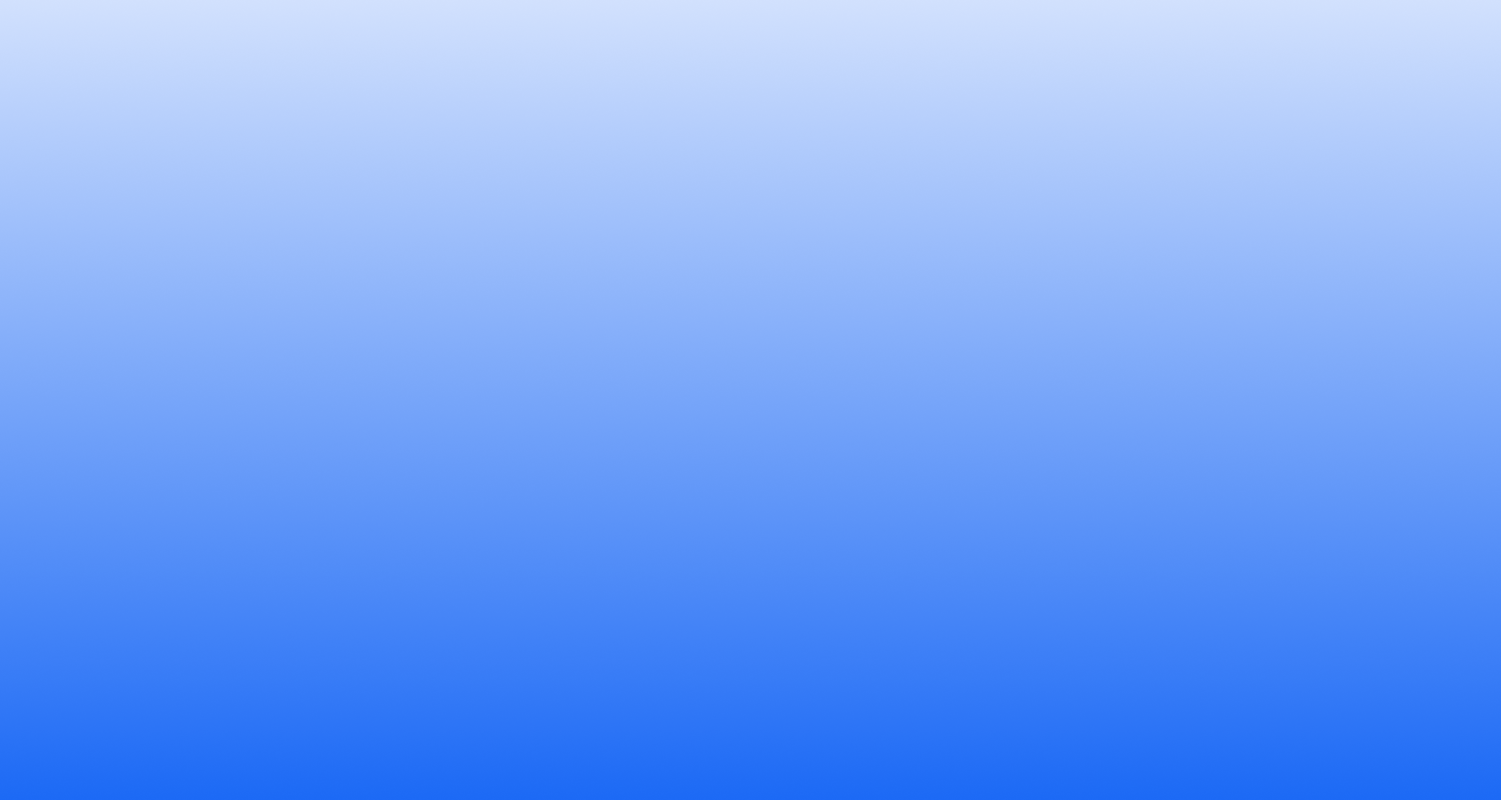
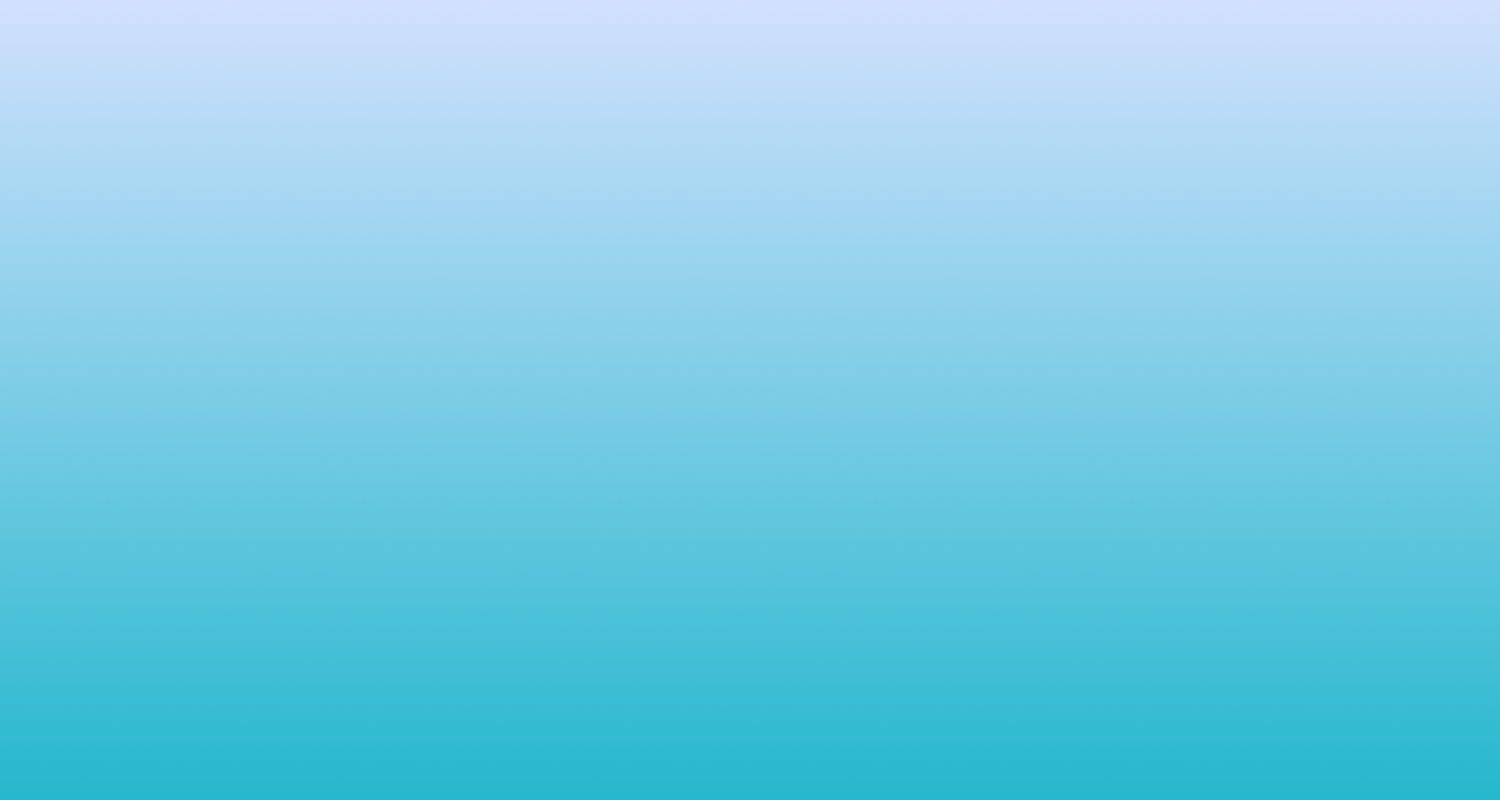
Refine verified process, typography, and section accents.
Add linear verification timeline, center key section headings, switch buttons to bold sans, and apply #36abf2 accent highlights across paths, why, and partners.

diff --git a/index.html b/index.html
@@ -147,9 +147,9 @@
 
 <!-- ============ 02 · CHOOSE YOUR PATH ============ -->
 <section class="section paths" id="paths">
-  <div class="container">
-    <p class="eyebrow reveal">Choose your path</p>
-    <h2 class="display display--lg reveal" data-delay="80">Which side of the<br>table are you on?</h2>
+  <div class="container paths--center">
+    <p class="eyebrow eyebrow--center reveal">Choose your path</p>
+    <h2 class="display display--lg display--center reveal" data-delay="80"><span class="display__accent">Which side</span> of the<br>table are you on?</h2>
 
     <div class="paths__grid paths__grid--3">
 
@@ -324,7 +324,7 @@
   <div class="stack-sticky">
     <div class="container stack__head">
       <p class="eyebrow">Why WeFundCo</p>
-      <h2 class="stack__title">Built differently from everything else in this market. Most platforms give you a list. We give you a match.</h2>
+      <h2 class="stack__title">Built differently from everything else in this market. Most platforms give you a list. <span class="display__accent">We give you a match.</span></h2>
       <a href="waitlist.html" class="btn btn--dark stack__cta">Join the Waitlist <span class="btn__arrow">&rarr;</span></a>
     </div>
 
@@ -368,40 +368,51 @@
 
 
 <!-- ============ 06 · WEFUNDCO VERIFIED ============ -->
-<section class="section partners" id="verified">
-  <div class="container">
-    <p class="eyebrow reveal">WeFundCo Verified</p>
-    <h2 class="display display--lg reveal" data-delay="80">Every profile<br><span class="display__accent">earns its place.</span></h2>
-    <p class="lede lede--left reveal" data-delay="140">Joining the waitlist is open. Being on the platform is not. Every startup, investor and partner is reviewed before becoming visible to anyone else. Entity verified. Team verified. Claims verified. This is not a badge. It is a standard.</p>
+<section class="section partners partners--verified" id="verified">
+  <div class="container partners--verified__inner">
+    <p class="eyebrow eyebrow--center reveal">WeFundCo Verified</p>
+    <h2 class="display display--lg display--center reveal" data-delay="80">Every profile<br><span class="display__accent">earns its place.</span></h2>
+    <p class="lede lede--center reveal" data-delay="140">Joining the waitlist is open. Being on the platform is not. Every startup, investor and partner is reviewed before becoming visible to anyone else. Entity verified. Team verified. Claims verified. This is not a badge. It is a standard.</p>
 
-    <div class="partners__grid">
-      <div class="partner-tile reveal" data-delay="60">
-        <img class="partner-tile__icon" src="Assets/dark-icons/Profile.png" alt="" />
-        <span>Level 01 &middot; Identity verification</span>
-      </div>
-      <div class="partner-tile reveal" data-delay="100">
-        <img class="partner-tile__icon" src="Assets/dark-icons/verify.png" alt="" />
-        <span>Level 02 &middot; Business verification</span>
-      </div>
-      <div class="partner-tile reveal" data-delay="140">
-        <img class="partner-tile__icon" src="Assets/dark-icons/doumentation.png" alt="" />
-        <span>Level 03 &middot; Documentation review</span>
-      </div>
-      <div class="partner-tile reveal" data-delay="180">
-        <img class="partner-tile__icon" src="Assets/dark-icons/Legal.png" alt="" />
-        <span>Level 04 &middot; Legal and compliance</span>
-      </div>
-      <div class="partner-tile reveal" data-delay="220">
-        <img class="partner-tile__icon" src="Assets/dark-icons/Compliance.png" alt="" />
-        <span>Level 05 &middot; Investor readiness</span>
-      </div>
-      <div class="partner-tile reveal" data-delay="260">
-        <img class="partner-tile__icon" src="Assets/dark-icons/Brand.png" alt="" />
-        <span>Verified badge, trust score, readiness index</span>
-      </div>
+    <div class="verify-process reveal" data-delay="160">
+      <div class="verify-process__line" aria-hidden="true"></div>
+      <ol class="verify-process__steps">
+        <li class="verify-process__step reveal" data-delay="60">
+          <div class="verify-process__circle">
+            <img src="Assets/dark-icons/Profile.png" alt="" />
+          </div>
+          <p class="verify-process__label">Level 01 &middot; Identity verification</p>
+        </li>
+        <li class="verify-process__step reveal" data-delay="100">
+          <div class="verify-process__circle">
+            <img src="Assets/dark-icons/verify.png" alt="" />
+          </div>
+          <p class="verify-process__label">Level 02 &middot; Business verification</p>
+        </li>
+        <li class="verify-process__step reveal" data-delay="140">
+          <div class="verify-process__circle">
+            <img src="Assets/dark-icons/doumentation.png" alt="" />
+          </div>
+          <p class="verify-process__label">Level 03 &middot; Documentation review</p>
+        </li>
+        <li class="verify-process__step reveal" data-delay="180">
+          <div class="verify-process__circle">
+            <img src="Assets/dark-icons/Legal.png" alt="" />
+          </div>
+          <p class="verify-process__label">Level 04 &middot; Legal and compliance</p>
+        </li>
+        <li class="verify-process__step reveal" data-delay="220">
+          <div class="verify-process__circle">
+            <img src="Assets/dark-icons/Compliance.png" alt="" />
+          </div>
+          <p class="verify-process__label">Level 05 &middot; Investor readiness</p>
+        </li>
+      </ol>
     </div>
 
-    <a href="waitlist.html" class="btn btn--dark reveal" data-delay="300">Join the Waitlist <span class="btn__arrow">&rarr;</span></a>
+    <div class="partners--verified__cta reveal" data-delay="260">
+      <a href="waitlist.html" class="btn btn--dark">Join the Waitlist <span class="btn__arrow">&rarr;</span></a>
+    </div>
   </div>
 
   <div class="marquee">
@@ -466,11 +477,11 @@
 
 
 <!-- ============ 08 · STRATEGIC PARTNERS ============ -->
-<section class="section partners" id="partners">
+<section class="section partners partners--growth" id="partners">
   <div class="container">
-    <p class="eyebrow reveal">Strategic Partners</p>
-    <h2 class="display display--lg reveal" data-delay="80">The people founders<br>need between rounds</h2>
-    <p class="lede lede--left reveal" data-delay="140">A funding conversation needs more than two people in it. Legal, financial, banking, compliance and technology partners join WeFundCo as the Growth Network, supporting founders through the parts of the journey that are easy to get wrong.</p>
+    <p class="eyebrow eyebrow--center reveal">Strategic Partners</p>
+    <h2 class="display display--lg display--center reveal" data-delay="80">The people founders<br>need <span class="display__accent">between rounds</span></h2>
+    <p class="lede lede--center reveal" data-delay="140">A funding conversation needs more than two people in it. Legal, financial, banking, compliance and technology partners join WeFundCo as the Growth Network, supporting founders through the parts of the journey that are easy to get wrong.</p>
 
     <div class="partners__grid">
       <div class="partner-tile reveal" data-delay="60">
@@ -499,7 +510,9 @@
       </div>
     </div>
 
-    <a href="waitlist.html" class="btn btn--dark reveal" data-delay="300">Become a strategic partner <span class="btn__arrow">&rarr;</span></a>
+    <div class="partners--growth__cta">
+      <a href="waitlist.html" class="btn btn--dark reveal" data-delay="300">Become a strategic partner <span class="btn__arrow">&rarr;</span></a>
+    </div>
   </div>
 </section>
 

diff --git a/css/styles-brand.css b/css/styles-brand.css
@@ -102,7 +102,7 @@ ul{margin:0;padding:0;list-style:none}
 .display--xl{font-size:clamp(38px,5.3vw,76px)}
 .display--lg{font-size:clamp(34px,4.5vw,64px);line-height:1.1}
 .display--center{text-align:center}
-.display__accent{color:#34aaf9}
+.display__accent{color:#36abf2}
 
 /* Geist Mono 500 · 14/19.6 · ls -.16px · uppercase */
 .eyebrow{
@@ -113,6 +113,7 @@ ul{margin:0;padding:0;list-style:none}
 
 .lede{font-size:16px;line-height:1.4;color:var(--muted);max-width:56ch}
 .lede--left{margin-top:24px}
+.lede--center{margin-inline:auto;text-align:center}
 
 /* Aspekta 500 · 32/41.6 · ls -.02em — the sans heading step */
 .statement{
@@ -122,11 +123,11 @@ ul{margin:0;padding:0;list-style:none}
 }
 
 /* ---------- buttons ---------- */
-/* Measured: padding 20px 24px · radius 12px · Geist Mono 500 16px uppercase · h58 */
+/* Measured: padding 20px 24px · radius 12px · Aspekta 700 16px · h58 */
 .btn{
   display:inline-flex;align-items:center;justify-content:center;gap:10px;
-  font-family:var(--mono);font-size:16px;font-weight:500;line-height:1;
-  letter-spacing:normal;text-transform:uppercase;
+  font-family:var(--sans);font-size:16px;font-weight:700;line-height:1;
+  letter-spacing:-.01em;text-transform:none;
   padding:20px 24px;border-radius:var(--r-btn);border:1px solid transparent;
   background:var(--ink);color:#fff;cursor:pointer;
   transition:transform var(--t-slow) var(--ease),background var(--t-fast) ease,
@@ -136,14 +137,14 @@ ul{margin:0;padding:0;list-style:none}
 .btn:hover{transform:translateY(-2px);box-shadow:0 12px 30px rgba(0,20,56,.18)}
 .btn--lg{padding:20px 28px}
 .btn--dark{background:var(--ink);color:#fff}
-.btn--pill{background:var(--royal-blue);color:#fff;padding:12px 16px;gap:8px}  /* nav CTA */
+.btn--pill{background:var(--royal-blue);color:#fff;padding:12px 16px;gap:8px;font-weight:600}  /* nav CTA */
 .btn--pill:hover{background:var(--deep-navy);color:#fff}
 .btn--mint{background:#fff;color:#3A3A3A;border-radius:200px}
 .btn--mint:hover{background:var(--teal);color:var(--oxford-blue)}
 .btn--lilac{background:var(--lilac);color:var(--ink-2)}
 .btn--ghost{
   background:var(--white);color:var(--ink);border-color:var(--line);
-  font-family:var(--sans);font-size:16px;font-weight:500;text-transform:none;
+  font-family:var(--sans);font-size:16px;font-weight:700;text-transform:none;
   padding:16px;border-radius:60px;gap:14px;
 }
 .btn__arrow{transition:transform .4s var(--ease)}
@@ -329,6 +330,9 @@ ul{margin:0;padding:0;list-style:none}
    02 · PATHS
    ========================================================= */
 .paths__grid{display:grid;grid-template-columns:1fr 1fr;gap:24px;margin-top:56px}
+.paths--center{text-align:center}
+.paths--center > .eyebrow,
+.paths--center > .display{margin-inline:auto}
 .path-card{
   background:#fff;border-radius:var(--r-xl);overflow:hidden;
   display:flex;flex-direction:column;
@@ -443,6 +447,7 @@ ul{margin:0;padding:0;list-style:none}
   font-size:clamp(21px,2.6vw,40px);line-height:1.22;
   max-width:min(38ch,calc(100% - 240px));
 }
+.stack__title .display__accent{color:#36abf2}
 .stack__cta{position:absolute;right:0;bottom:0}
 .stack__cards{position:relative;flex:1;min-height:0;height:auto;overflow:hidden}
 .stat-card{
@@ -501,6 +506,53 @@ ul{margin:0;padding:0;list-style:none}
   width:64px;height:64px;flex:none;object-fit:contain;
 }
 .partner-tile span{font-size:20px;font-weight:600;letter-spacing:-.01em}
+
+/* ---- WeFundCo Verified: linear 5-step process ---- */
+.partners--verified__inner{text-align:center}
+.partners--verified__inner .lede{max-width:62ch}
+.partners--growth{text-align:center}
+.partners--growth .lede{margin-inline:auto}
+.partners--growth__cta{display:flex;justify-content:center;margin-top:40px}
+.partners--verified__cta{display:flex;justify-content:center;margin-top:40px}
+.verify-process{
+  --verify-circle:clamp(80px,9vw,104px);
+  position:relative;margin:clamp(40px,6vw,56px) auto 0;
+  padding:0;max-width:100%;
+}
+.verify-process__line{
+  position:absolute;
+  top:calc(var(--verify-circle) / 2);
+  left:10%;right:10%;
+  height:2px;background:var(--line);transform:translateY(-50%);
+  pointer-events:none;
+}
+.verify-process__steps{
+  position:relative;z-index:1;
+  display:grid;grid-template-columns:repeat(5,1fr);gap:clamp(12px,2.4vw,28px);
+  list-style:none;margin:0;padding:0;
+}
+.verify-process__step{
+  display:flex;flex-direction:column;align-items:center;gap:18px;
+  text-align:center;
+  transition:transform .45s var(--ease);
+  transform-origin:center top;
+}
+.verify-process__step:hover{transform:scale(1.1)}
+.verify-process__circle{
+  width:var(--verify-circle);height:var(--verify-circle);
+  border-radius:100%;background:var(--white);
+  border:1px solid rgba(0,20,56,.18);
+  box-shadow:0 10px 28px rgba(0,20,56,.08);
+  display:grid;place-items:center;
+  position:relative;z-index:1;
+}
+.verify-process__circle img{
+  width:calc(var(--verify-circle) * 0.46);height:calc(var(--verify-circle) * 0.46);object-fit:contain;
+}
+.verify-process__label{
+  margin:0;font-size:clamp(13px,1.35vw,16px);font-weight:600;
+  letter-spacing:-.01em;line-height:1.35;max-width:16ch;
+}
 
 .marquee{margin-top:clamp(56px,8vw,100px);overflow:hidden;border-block:1px solid var(--line);padding:22px 0}
 .marquee__track{display:flex;align-items:center;gap:36px;width:max-content;animation:slide 28s linear infinite}
@@ -644,6 +696,10 @@ ul{margin:0;padding:0;list-style:none}
   .strip__card{flex-basis:78vw}
   .event-card{height:auto;min-height:460px}
   .event-card__panel{width:calc(100% - 32px);position:relative;margin:16px}
+  .verify-process{padding-inline:0}
+  .verify-process__steps{gap:8px}
+  .verify-process__label{font-size:12px;max-width:12ch}
+  .verify-process__step:hover{transform:scale(1.06)}
 }
 
 @media (prefers-reduced-motion:reduce){
